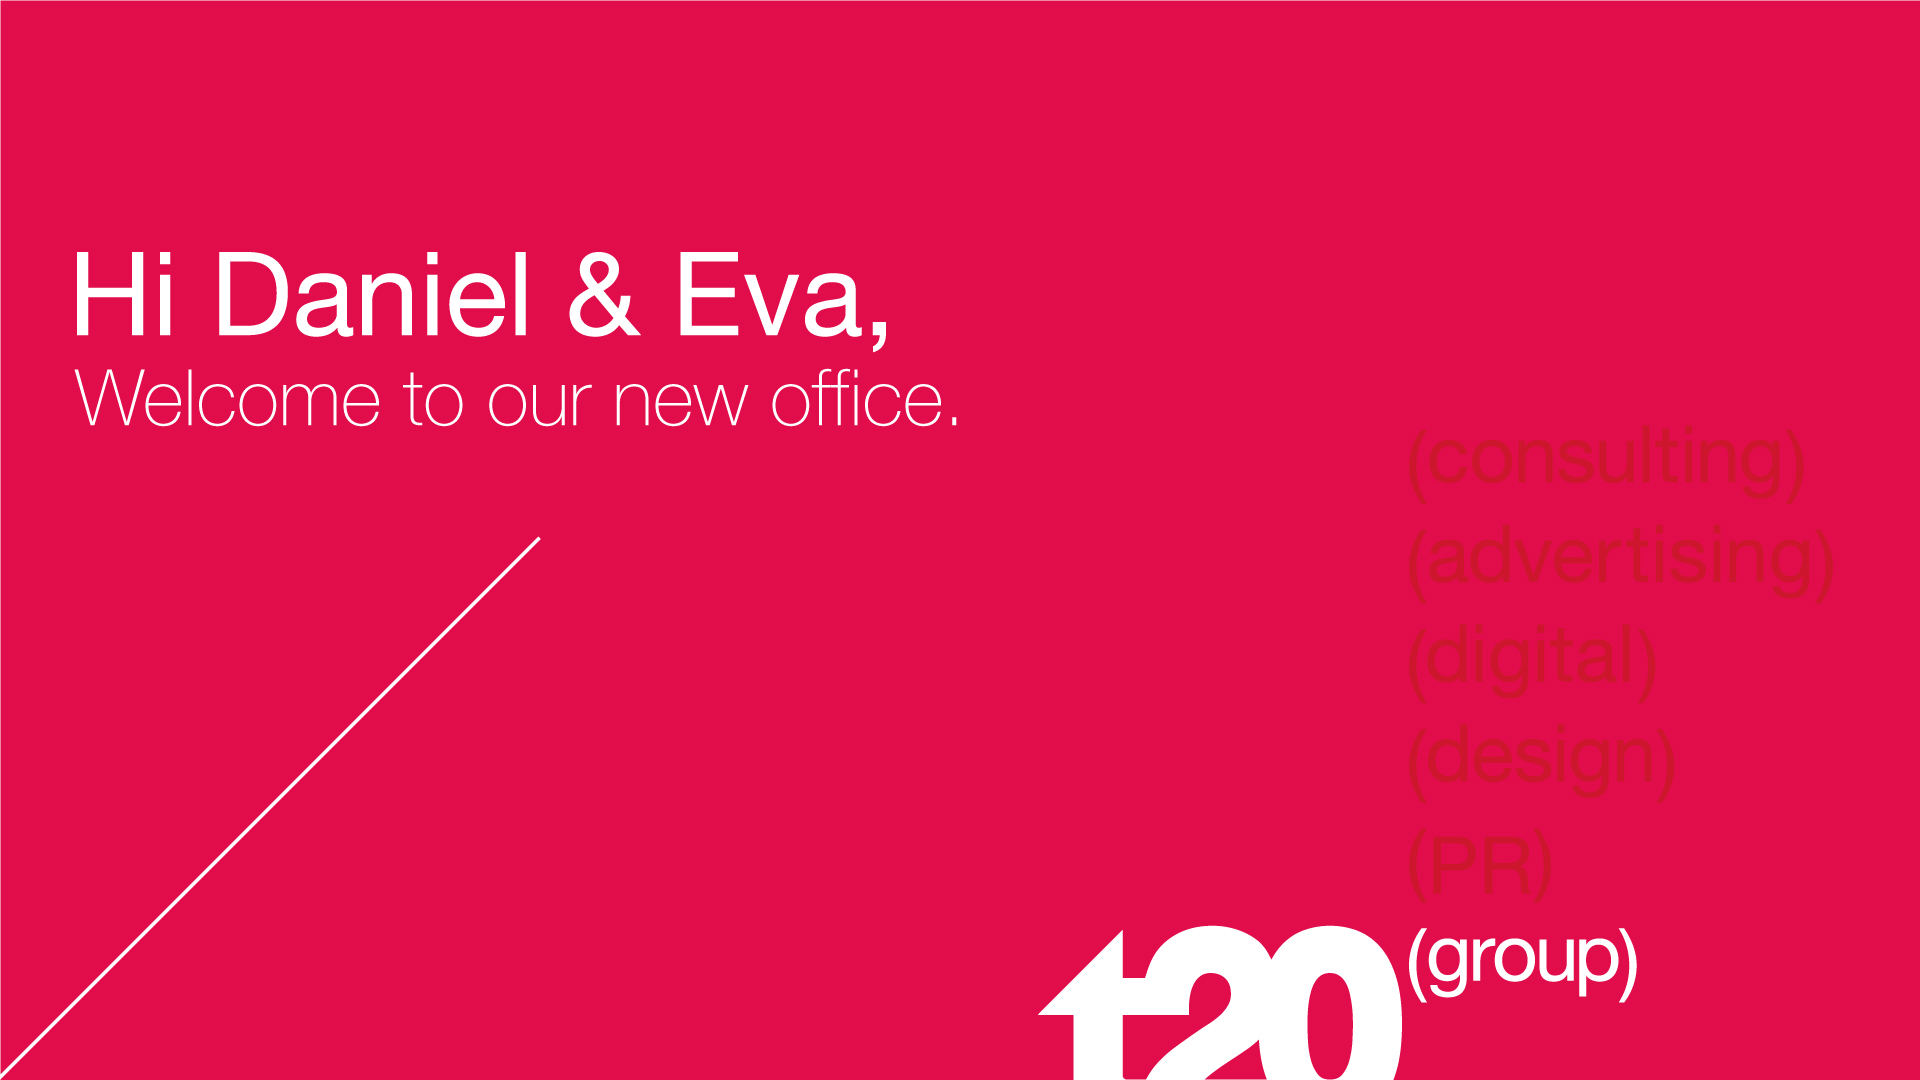
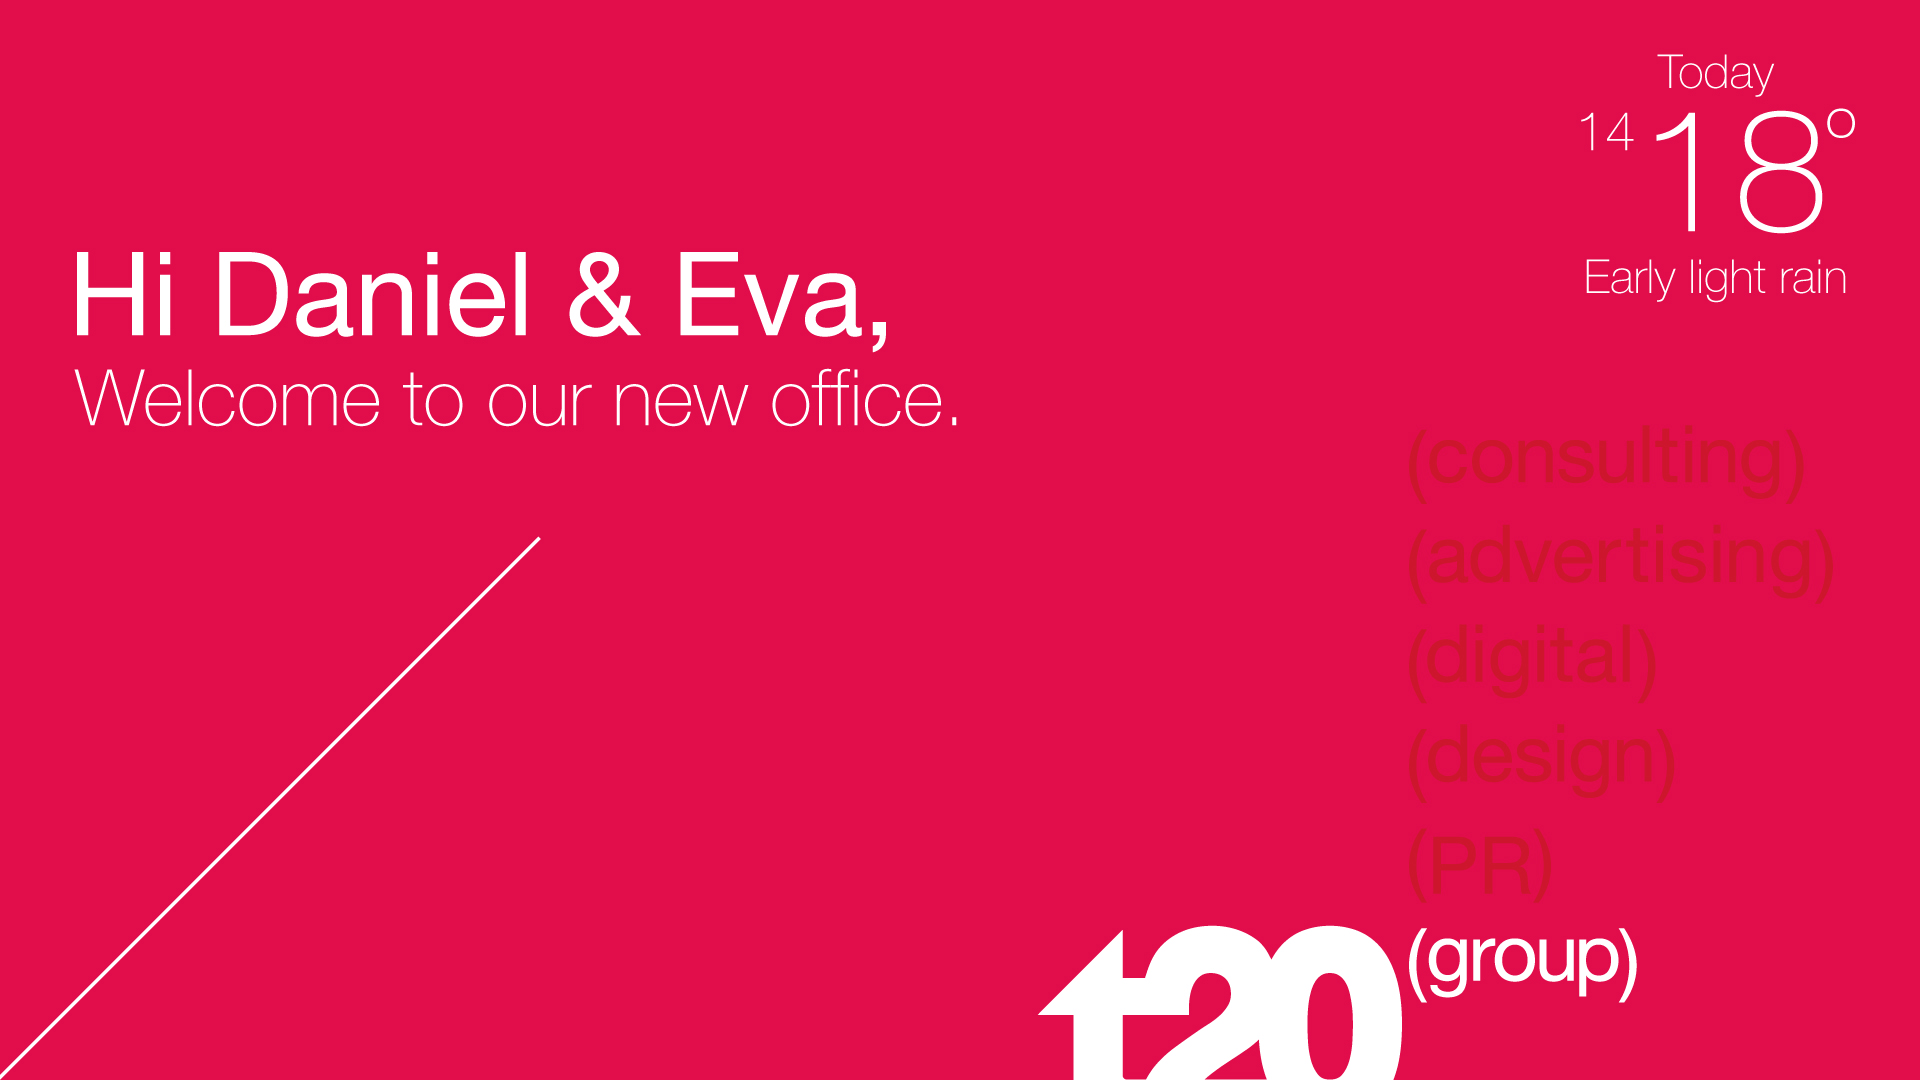
no message

Changed region(s): [[0.8438, 0.0611, 0.9688, 0.2139], [0.8125, 0.2444, 0.9688, 0.275]]

diff --git a/index.html b/index.html
@@ -11,7 +11,7 @@
 <body style="background: #d7003a;">
 
 <!-- <a href="simTV-presso-only.html"><img src="images/hi-daniel2.jpg" width="1920" height="1080"></a> -->
-<img src="images/hi-paul.jpg" width="1920" height="1080">
+<img src="images/hi-daniel.jpg" width="1920" height="1080">
 
 <img style="position: absolute; top: 5%; right: 5%;" src="images/weather.png"/>
 
